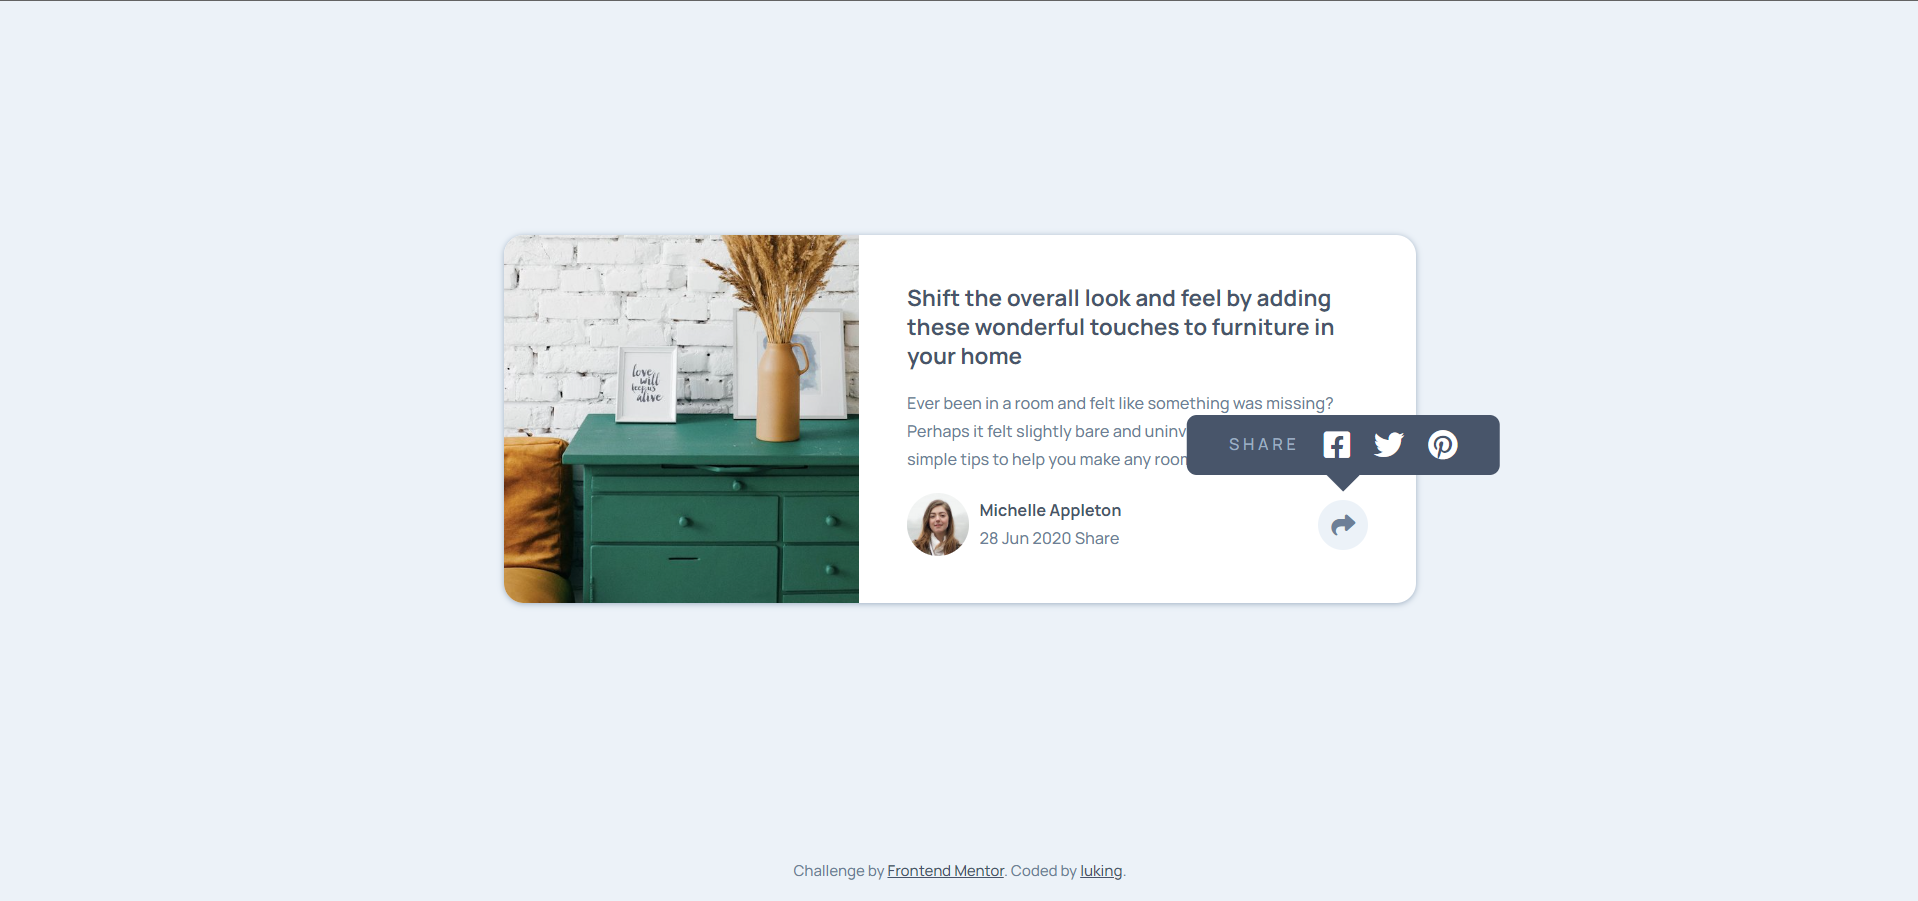
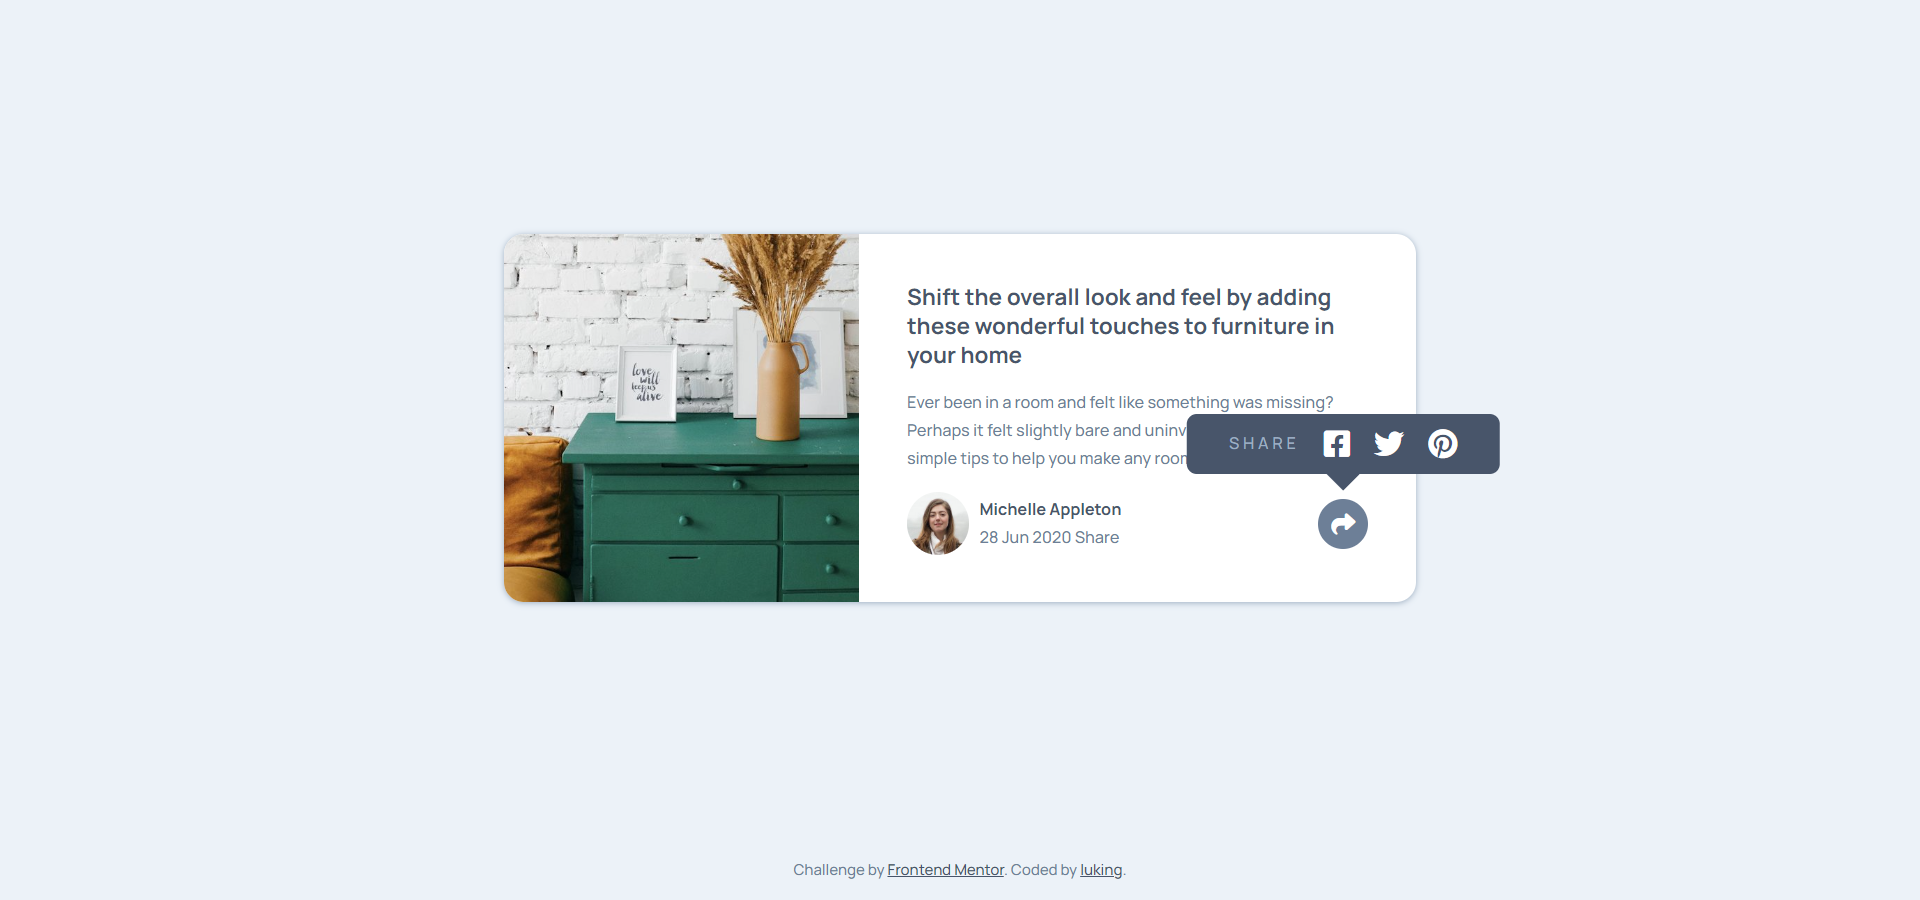
add hover state

diff --git a/article-preview-component/index.html b/article-preview-component/index.html
@@ -62,7 +62,7 @@
                   <i class="fa-brands fa-pinterest"></i>
                 </a>
               </div>
-              <button class="share-btn" id="share-btn">
+              <button class="share-btn">
                 <i class="fa-solid fa-share"></i>
               </button>
             </div>
@@ -82,7 +82,7 @@
               <i class="fa-brands fa-pinterest"></i>
             </a>
           </div>
-          <button class="share-btn share-btn--mobile">
+          <button class="share-btn">
             <i class="fa-solid fa-share"></i>
           </button>
         </div>

diff --git a/article-preview-component/index.js b/article-preview-component/index.js
@@ -1,6 +1,8 @@
-const shareButton = document.getElementById("share-btn");
+const shareButtons = document.querySelectorAll(".share-btn");
 const articleElement = document.querySelector(".article");
 
-shareButton.addEventListener("click", () => {
-  articleElement.classList.toggle("share");
+shareButtons.forEach((btn) => {
+  btn.addEventListener("click", () => {
+    articleElement.classList.toggle("share");
+  });
 });

diff --git a/article-preview-component/style.css b/article-preview-component/style.css
@@ -210,7 +210,8 @@ div[class*="share-tooltip"] p {
   background-color: var(--clr-neutral-500);
 }
 
-.share-btn--mobile {
+.share-btn:hover,
+.share .share-btn {
   background-color: var(--clr-neutral-700);
   color: var(--clr-neutral-400);
 }
